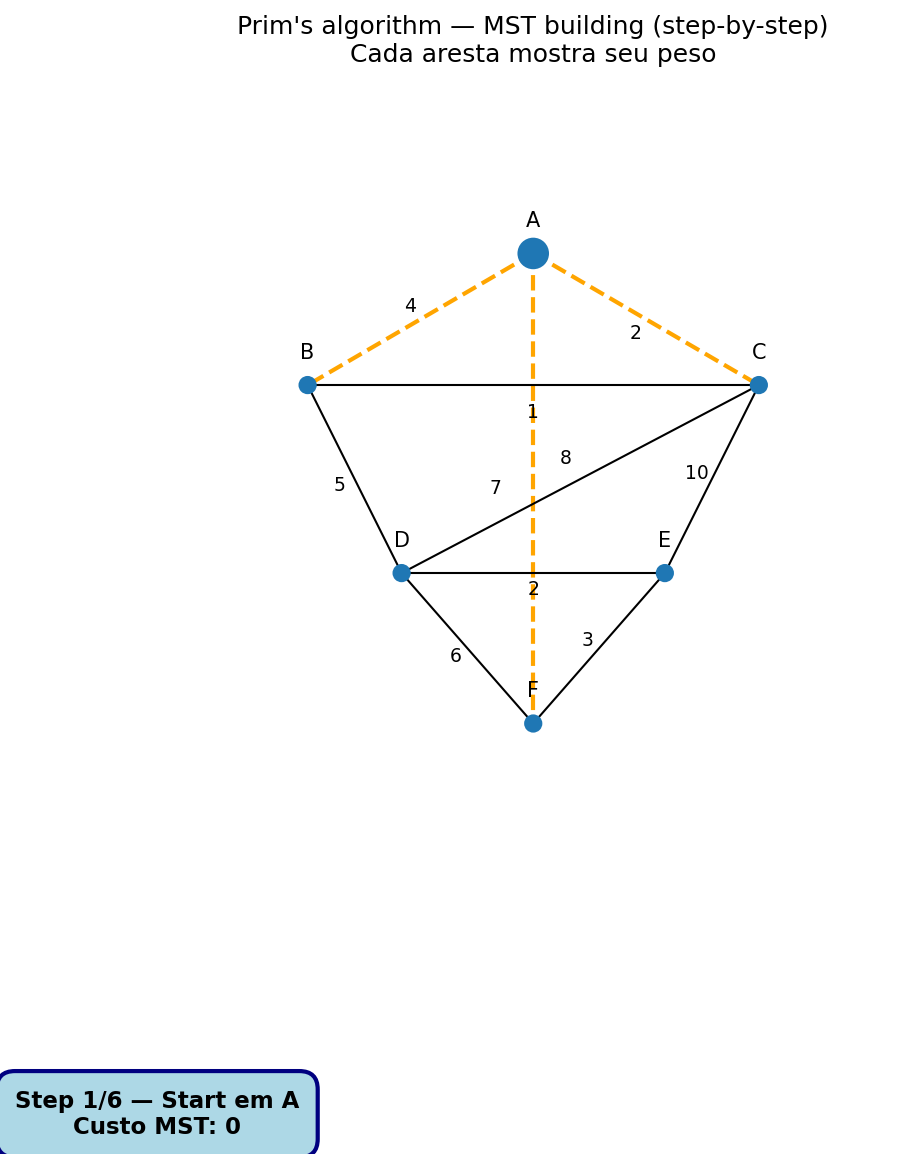
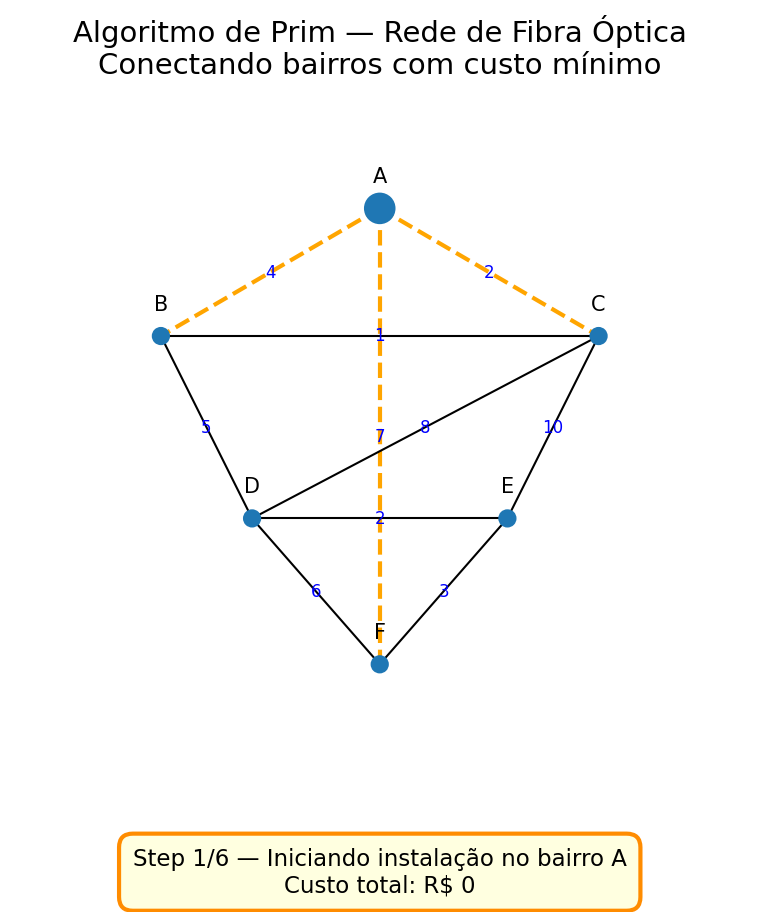
correção do gif do algoritmo de prim

diff --git a/algoritmo_de_prim.py b/algoritmo_de_prim.py
@@ -1,38 +1,14 @@
-"""
-prim.py
-
-Script que anima o passo-a-passo do algoritmo de Prim para uma Árvore Geradora Mínima (MST).
-Gera:
- - prim_animation.gif
- - frames/frame_1.png, frame_2.png, ...
-
-Como usar:
-  python prim.py
-
-Dependências:
-  - Python 3.8+
-  - matplotlib
-  - pillow (para salvar gif via PillowWriter; geralmente já instalado com matplotlib)
-
-Estrutura de saída:
-  ./prim_outputs/prim_animation.gif
-  ./prim_outputs/frames/frame_*.png
-"""
-
 import heapq
 import os
-import sys
-import matplotlib
 import matplotlib.pyplot as plt
 from matplotlib.animation import FuncAnimation, PillowWriter
 
-# ---------------------------
-# Configuração do grafo (exemplo)
-# ---------------------------
-# Nós representam bairros A..F
-nodes = ["A", "B", "C", "D", "E", "F"]
+# Problema: Empresa de internet conectando bairros com fibra óptica
+# Nós = Bairros da cidade
+# Arestas = Rotas possíveis de cabeamento 
+# Pesos = Custo de instalação 
+nodes = ["A", "B", "C", "D", "E", "F"]  # Bairros da cidade
 
-# Posições para desenho (x, y) - ajustadas para melhor visualização
 pos = {
     0: (0.0, 1.0),    # A
     1: (-1.2, 0.3),   # B
@@ -42,7 +18,6 @@ pos = {
     5: (0.0, -1.5)    # F
 }
 
-# Grafo não-direcionado ponderado: lista de adjacência
 graph = {
     0: [(1, 4), (2, 2), (5, 7)],
     1: [(0, 4), (2, 1), (3, 5)],
@@ -52,7 +27,7 @@ graph = {
     5: [(0, 7), (3, 6), (4, 3)]
 }
 
-# Construir lista única de arestas (u < v) -> peso
+# Lista única de arestas
 unique_edges = {}
 for u in graph:
     for v, w in graph[u]:
@@ -60,18 +35,15 @@ for u in graph:
         if (a, b) not in unique_edges:
             unique_edges[(a, b)] = w
 
-# ---------------------------
-# Prim que registra passos
-# ---------------------------
+# Passo a passo do Algoritmo de Prim
 def prim_steps(graph, start=0):
-    n = len(graph)
     visited = set()
     heap = []
-    heapq.heappush(heap, (0, -1, start))  # (peso, origem, destino)
+    heapq.heappush(heap, (0, -1, start))
     selected = []
     steps = []
 
-    while heap and len(visited) < n:
+    while heap and len(visited) < len(graph):
         weight, origin, dest = heapq.heappop(heap)
         if dest in visited:
             continue
@@ -85,13 +57,12 @@ def prim_steps(graph, start=0):
             if nbr not in visited:
                 heapq.heappush(heap, (w, dest, nbr))
 
-        # construir fronteira a partir do heap (deduplicada)
         frontier = []
-        seen_front = set()
+        seen = set()
         for (w, o, d) in heap:
             a, b = (o, d) if o < d else (d, o)
-            if (a, b) not in seen_front and (a, b) in unique_edges:
-                seen_front.add((a, b))
+            if (a, b) not in seen and (a, b) in unique_edges:
+                seen.add((a, b))
                 frontier.append((a, b, w))
 
         steps.append({
@@ -100,22 +71,16 @@ def prim_steps(graph, start=0):
             "frontier": list(frontier),
             "picked": (origin, dest, weight)
         })
-
     return steps
 
-# ---------------------------
-# Funções de desenho / animação
-# ---------------------------
-def build_animation(steps, nodes, pos, unique_edges, fps=1, interval_ms=1200):
-    # Preparar figura com mais espaço vertical
-    fig, ax = plt.subplots(figsize=(10, 7))
+# GIF
+def build_animation(steps, nodes, pos, unique_edges, interval_ms=1500):
+    fig, ax = plt.subplots(figsize=(8, 6))
     ax.set_aspect('equal')
     ax.axis('off')
-    ax.set_title("Prim's algorithm — MST building (step-by-step)\nCada aresta mostra seu peso", pad=20)
-    
-    # Definir limites dos eixos para garantir boa visualização
     ax.set_xlim(-2.0, 2.0)
-    ax.set_ylim(-2.5, 1.8)
+    ax.set_ylim(-2.2, 1.6)
+    ax.set_title("Algoritmo de Prim — Rede de Fibra Óptica\nConectando bairros com custo mínimo", fontsize=14, pad=12)
 
     xs = [pos[i][0] for i in range(len(nodes))]
     ys = [pos[i][1] for i in range(len(nodes))]
@@ -126,29 +91,28 @@ def build_animation(steps, nodes, pos, unique_edges, fps=1, interval_ms=1200):
         x, y = pos[i]
         ax.text(x, y + 0.12, name, fontsize=10, ha='center', va='bottom', zorder=4)
 
-    # desenhar todas as arestas finas inicialmente; armazenar handles
     edge_lines = {}
     for (u, v), w in unique_edges.items():
         x1, y1 = pos[u]
         x2, y2 = pos[v]
-        line, = ax.plot([x1, x2], [y1, y2], linewidth=1.0, linestyle='solid', zorder=1)
+        line, = ax.plot([x1, x2], [y1, y2], color="black", linewidth=1.0, zorder=1)
         edge_lines[(u, v)] = line
-        # peso no ponto médio com pequeno deslocamento
         mx, my = (x1 + x2) / 2.0, (y1 + y2) / 2.0
-        dx, dy = (y2 - y1) * 0.08, -(x2 - x1) * 0.06
-        ax.text(mx + dx, my + dy, str(w), fontsize=9, ha='center', va='center', zorder=4)
+        ax.text(mx, my, str(w), fontsize=8, ha='center', va='center', color="blue")
 
-    # Posicionar o texto informativo na parte inferior da figura
-    info_text = ax.text(0.0, -0.22, "", transform=ax.transAxes, ha='center', va='top', fontsize=11, weight='bold',
-                       bbox=dict(boxstyle="round,pad=0.8", facecolor="lightblue", alpha=1.0, 
-                                edgecolor='navy', linewidth=2))
+    # Caixa de informações
+    info_text = ax.text(0.5, -0.08, "", transform=ax.transAxes,
+                        ha="center", va="top", fontsize=11,
+                        bbox=dict(boxstyle="round,pad=0.6",
+                                  facecolor="lightyellow",
+                                  edgecolor="darkorange", linewidth=2))
 
     def update(frame):
         snap = steps[frame]
-        visited = snap['visited']
-        selected = set((u, v) for (u, v, w) in snap['selected'])
-        frontier = set((u, v) for (u, v, w) in snap['frontier'])
-        picked = snap['picked']
+        visited = snap["visited"]
+        selected = set((u, v) for (u, v, w) in snap["selected"])
+        frontier = set((u, v) for (u, v, w) in snap["frontier"])
+        picked = snap["picked"]
 
         sizes = [200 if i in visited else 60 for i in range(len(nodes))]
         scat.set_sizes(sizes)
@@ -156,149 +120,65 @@ def build_animation(steps, nodes, pos, unique_edges, fps=1, interval_ms=1200):
         for (u, v), line in edge_lines.items():
             if (u, v) in selected:
                 line.set_linewidth(3.0)
-                line.set_linestyle('solid')
-                line.set_zorder(2)
+                line.set_color("red")
             elif (u, v) in frontier:
                 line.set_linewidth(2.0)
-                line.set_linestyle('dashed')
-                line.set_zorder(1.5)
+                line.set_color("orange")
+                line.set_linestyle("dashed")
             else:
                 line.set_linewidth(1.0)
-                line.set_linestyle('solid')
-                line.set_zorder(1.0)
+                line.set_color("black")
+                line.set_linestyle("solid")
 
         origin, dest, w = picked
         if origin == -1:
-            info = f"Step {frame+1}/{len(steps)} — Start em {nodes[dest]}"
-            cost_detail = "Custo MST: 0"
+            msg = f"Step {frame+1}/{len(steps)} — Iniciando instalação no bairro {nodes[dest]}"
+            cost_msg = "Custo total: R$ 0"
         else:
-            info = f"Step {frame+1}/{len(steps)} — Escolheu {nodes[origin]}-{nodes[dest]} (w={w})"
-            # Mostrar cada aresta selecionada com seu peso
-            if snap['selected']:
-                edges_detail = []
-                total_cost = 0
-                for (u, v, weight) in snap['selected']:
-                    edges_detail.append(f"{nodes[u]}-{nodes[v]}({weight})")
-                    total_cost += weight
-                cost_detail = f"MST: {' + '.join(edges_detail)} = {total_cost}"
-            else:
-                cost_detail = "Custo MST: 0"
-        
-        info += f"\n{cost_detail}"
-        info_text.set_text(info)
+            msg = f"Step {frame+1}/{len(steps)} — Instalando cabo {nodes[origin]}-{nodes[dest]} (R$ {w})"
+            edges_detail = []
+            total = 0
+            for (u, v, ww) in snap["selected"]:
+                edges_detail.append(f"{nodes[u]}-{nodes[v]}({ww})")
+                total += ww
+            cost_msg = f"Rede: {' + '.join(edges_detail)} = R$ {total}"
+
+        info_text.set_text(msg + "\n" + cost_msg)
         return []
 
-    anim = FuncAnimation(fig, update, frames=len(steps), interval=interval_ms, blit=False, repeat=False)
-    return fig, anim, edge_lines, scat
+    anim = FuncAnimation(fig, update, frames=len(steps),
+                         interval=interval_ms, repeat=False)
+    return fig, anim
 
-# ---------------------------
-# Main: gerar e salvar arquivos
-# ---------------------------
+# Principal
 def main():
     out_dir = os.path.join(os.getcwd(), "prim_outputs")
     frames_dir = os.path.join(out_dir, "frames")
     os.makedirs(frames_dir, exist_ok=True)
 
-    print("Executando Prim e registrando passos...")
     steps = prim_steps(graph, start=0)
-    print(f"Passos registrados: {len(steps)}")
-
-    print("Construindo animação...")
-    fig, anim, edge_lines, scat = build_animation(steps, nodes, pos, unique_edges, fps=1, interval_ms=1200)
+    fig, anim = build_animation(steps, nodes, pos, unique_edges)
 
     gif_path = os.path.join(out_dir, "prim_animation.gif")
+    print("Gerando GIF...")
+    anim.save(gif_path, writer=PillowWriter(fps=1))
+    print("GIF salvo em:", gif_path)
 
-    # Salvar GIF (Pillow)
-    try:
-        print("Salvando GIF...")
-        writer = PillowWriter(fps=1)
-        anim.save(gif_path, writer=writer)
-        print(f"GIF salvo em: {gif_path}")
-        gif_saved = True
-    except Exception as e:
-        print("Falha ao salvar GIF. Erro:")
-        print(e)
-        gif_saved = False
-
-    # Salvar frames PNG individuais
-    print("Salvando frames PNG individuais...")
-    def update_frame_for_save(frame_idx):
-        """Atualiza a figura para um frame específico e retorna para salvar"""
-        snap = steps[frame_idx]
-        visited = snap['visited']
-        selected = set((u, v) for (u, v, w) in snap['selected'])
-        frontier = set((u, v) for (u, v, w) in snap['frontier'])
-        picked = snap['picked']
-
-        # Atualizar tamanhos dos nós
-        sizes = [200 if i in visited else 60 for i in range(len(nodes))]
-        scat.set_sizes(sizes)
-
-        # Atualizar estilo das arestas
-        for (u, v), line in edge_lines.items():
-            if (u, v) in selected:
-                line.set_linewidth(3.0)
-                line.set_linestyle('solid')
-                line.set_color('red')
-            elif (u, v) in frontier:
-                line.set_linewidth(2.0)
-                line.set_linestyle('dashed')
-                line.set_color('orange')
-            else:
-                line.set_linewidth(1.0)
-                line.set_linestyle('solid')
-                line.set_color('black')
-
-        # Atualizar texto informativo
-        origin, dest, w = picked
-        if origin == -1:
-            info = f"Step {frame_idx+1}/{len(steps)} — Start em {nodes[dest]}"
-            cost_detail = "Custo MST: 0"
-        else:
-            info = f"Step {frame_idx+1}/{len(steps)} — Escolheu {nodes[origin]}-{nodes[dest]} (w={w})"
-            # Mostrar cada aresta selecionada com seu peso
-            if snap['selected']:
-                edges_detail = []
-                total_cost = 0
-                for (u, v, weight) in snap['selected']:
-                    edges_detail.append(f"{nodes[u]}-{nodes[v]}({weight})")
-                    total_cost += weight
-                cost_detail = f"MST: {' + '.join(edges_detail)} = {total_cost}"
-            else:
-                cost_detail = "Custo MST: 0"
-        
-        info += f"\n{cost_detail}"
-        
-        # Encontrar e atualizar o texto informativo na figura
-        ax = fig.axes[0]
-        for text in ax.texts:
-            if (hasattr(text, 'get_transform') and 
-                text.get_transform() == ax.transAxes and 
-                hasattr(text, 'get_position')):
-                pos = text.get_position()
-                # O texto informativo tem posição y negativa
-                if pos[1] < 0:
-                    text.set_text(info)
-                    break
-        else:
-            # Se não encontrou, criar um novo texto
-            ax.text(0.0, -0.22, info, transform=ax.transAxes, ha='center', va='top', 
-                   fontsize=11, weight='bold',
-                   bbox=dict(boxstyle="round,pad=0.8", facecolor="lightblue", alpha=1.0, 
-                            edgecolor='navy', linewidth=2))
-
+    print("Gerando frames PNG...")
+    # Criar uma nova animação para salvar os frames individualmente
+    from matplotlib.animation import FuncAnimation
+    
+    def save_frame(frame_num):
+        # Atualiza o frame
+        anim.frame_seq = iter([frame_num])
+        anim._draw_frame(frame_num)
+        fig.savefig(os.path.join(frames_dir, f"frame_{frame_num+1:02d}.png"),
+                    dpi=150, bbox_inches="tight")
+    
     for i in range(len(steps)):
-        update_frame_for_save(i)
-        fig.savefig(os.path.join(frames_dir, f"frame_{i+1:02d}.png"), dpi=150, bbox_inches='tight')
-
-    print(f"Frames salvos em: {frames_dir}")
-
-    print("\nResumo de arquivos gerados:")
-    if gif_saved:
-        print(" - GIF:", gif_path)
-    else:
-        print(" - GIF: NÃO GERADO (ver mensagens acima).")
-    print(" - Frames PNG:", frames_dir)
+        save_frame(i)
+    
+    print("Frames salvos em:", frames_dir)
 
 if __name__ == "__main__":
     main()
